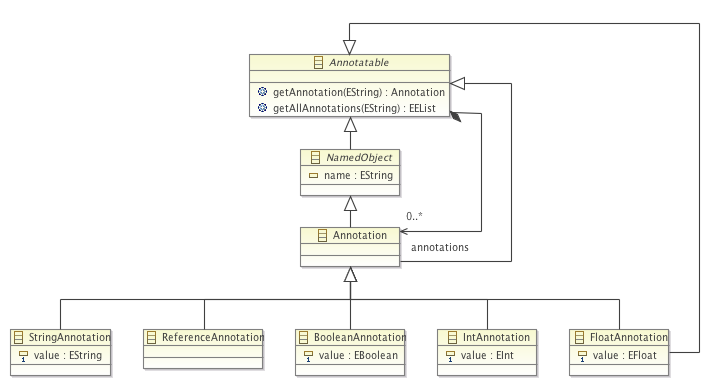
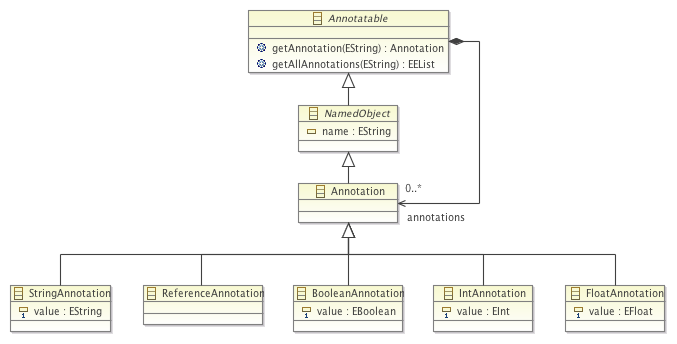
removed some inheritances

diff --git a/plugins/de.cau.cs.kieler.core.annotations/src/de/cau/cs/kieler/annotations/impl/AnnotationsPackageImpl.java b/plugins/de.cau.cs.kieler.core.annotations/src/de/cau/cs/kieler/annotations/impl/AnnotationsPackageImpl.java
@@ -374,13 +374,11 @@ public class AnnotationsPackageImpl extends EPackageImpl implements AnnotationsP
         // Add supertypes to classes
         namedObjectEClass.getESuperTypes().add(this.getAnnotatable());
         annotationEClass.getESuperTypes().add(this.getNamedObject());
-        annotationEClass.getESuperTypes().add(this.getAnnotatable());
         stringAnnotationEClass.getESuperTypes().add(this.getAnnotation());
         referenceAnnotationEClass.getESuperTypes().add(this.getAnnotation());
         booleanAnnotationEClass.getESuperTypes().add(this.getAnnotation());
         intAnnotationEClass.getESuperTypes().add(this.getAnnotation());
         floatAnnotationEClass.getESuperTypes().add(this.getAnnotation());
-        floatAnnotationEClass.getESuperTypes().add(this.getAnnotatable());
 
         // Initialize classes and features; add operations and parameters
         initEClass(namedObjectEClass, NamedObject.class, "NamedObject", IS_ABSTRACT, !IS_INTERFACE, IS_GENERATED_INSTANCE_CLASS);

diff --git a/plugins/de.cau.cs.kieler.core.annotations/src/de/cau/cs/kieler/annotations/FloatAnnotation.java b/plugins/de.cau.cs.kieler.core.annotations/src/de/cau/cs/kieler/annotations/FloatAnnotation.java
@@ -23,7 +23,7 @@ package de.cau.cs.kieler.annotations;
  * @model
  * @generated
  */
-public interface FloatAnnotation extends Annotation, Annotatable {
+public interface FloatAnnotation extends Annotation {
     /**
      * Returns the value of the '<em><b>Value</b></em>' attribute.
      * <!-- begin-user-doc -->

diff --git a/plugins/de.cau.cs.kieler.core.annotations/src/de/cau/cs/kieler/annotations/Annotation.java b/plugins/de.cau.cs.kieler.core.annotations/src/de/cau/cs/kieler/annotations/Annotation.java
@@ -17,5 +17,5 @@ package de.cau.cs.kieler.annotations;
  * @model
  * @generated
  */
-public interface Annotation extends NamedObject, Annotatable {
+public interface Annotation extends NamedObject {
 } // Annotation
